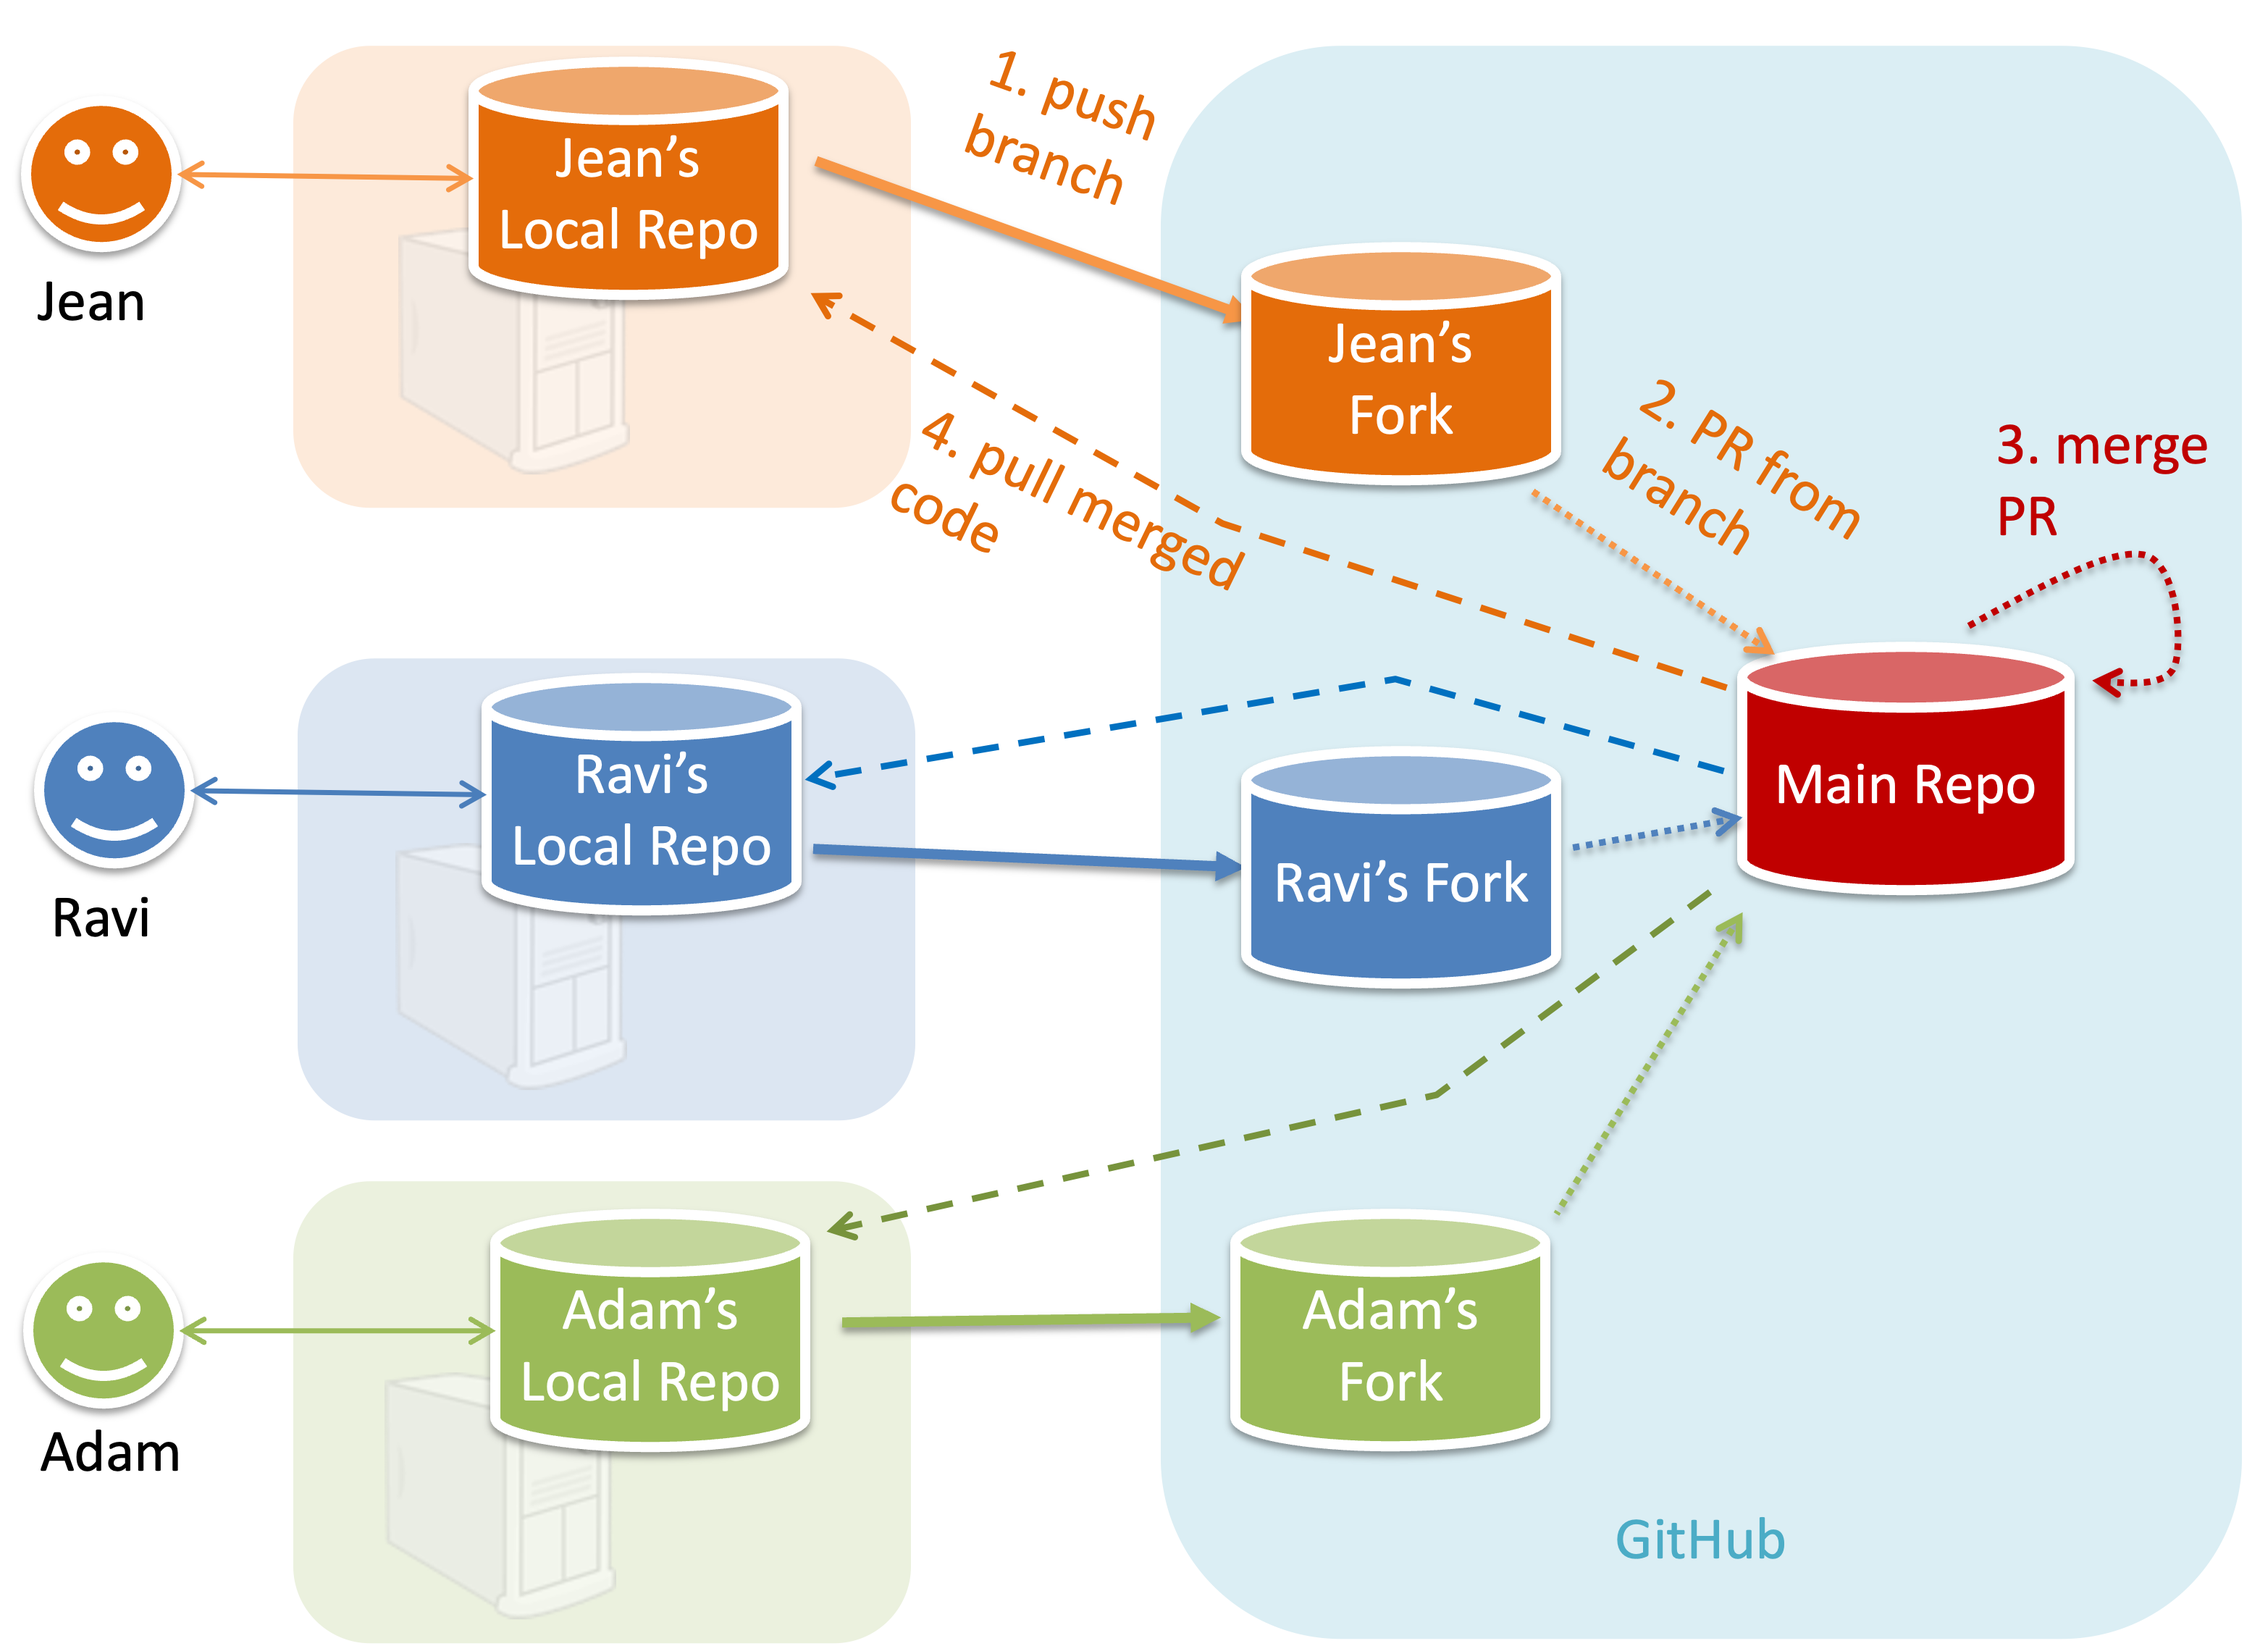
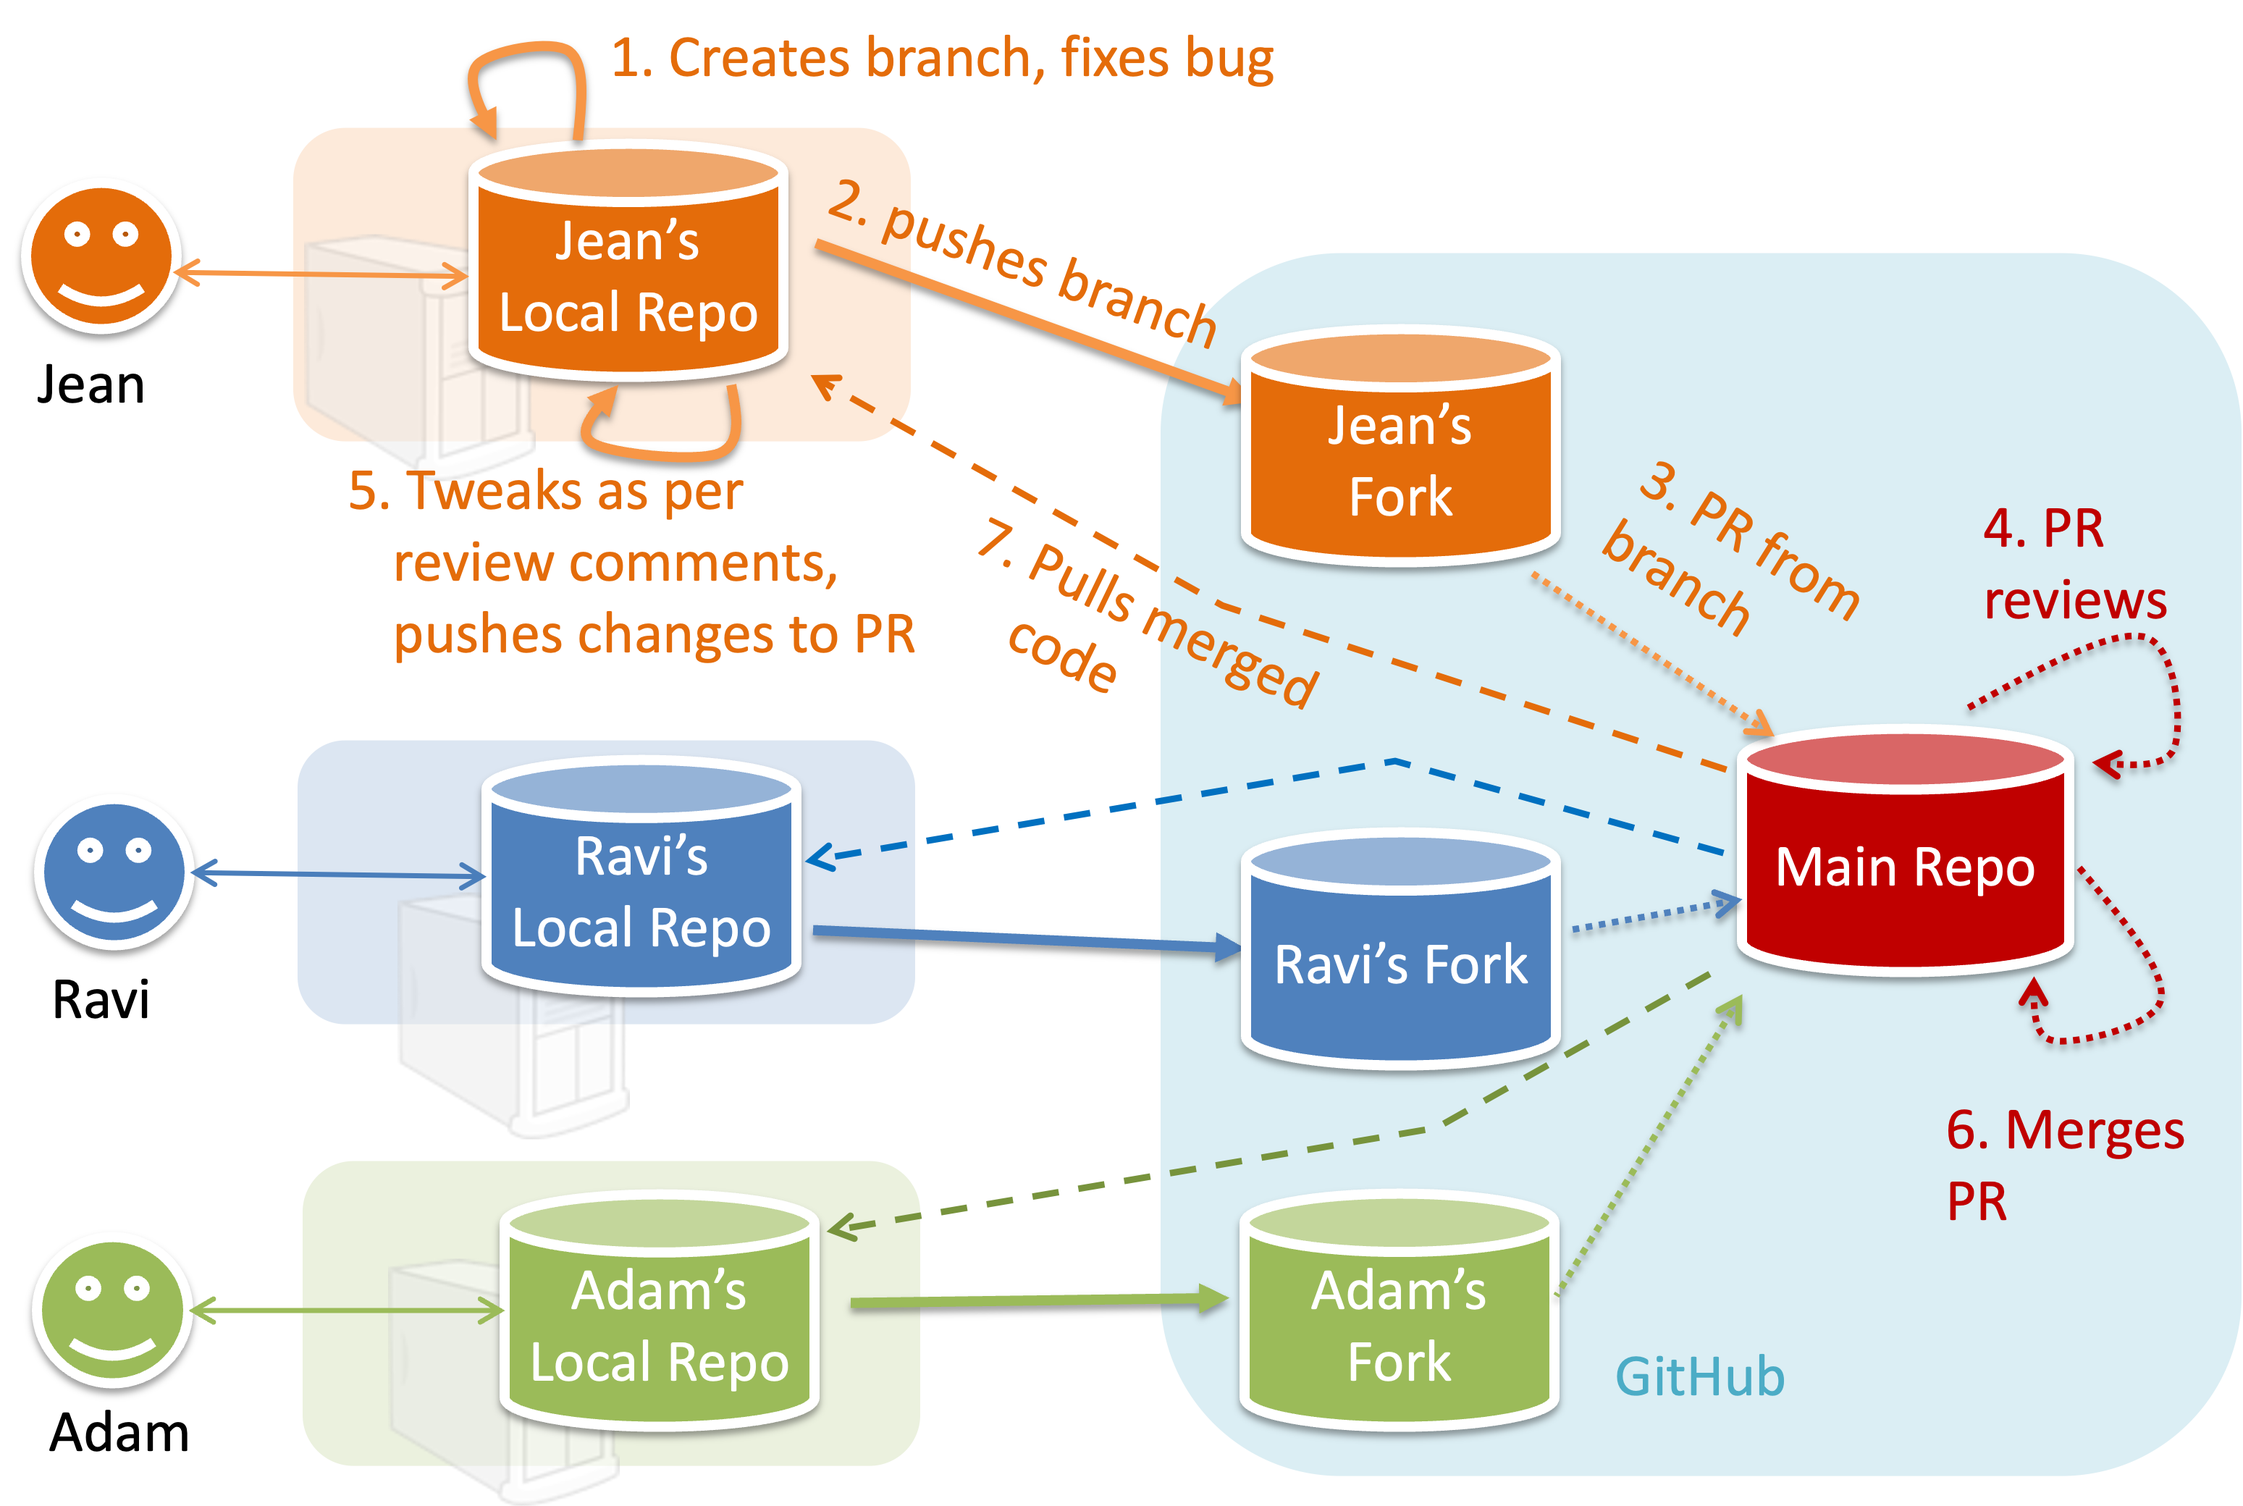
Add T10L2

diff --git a/lessons/forkingWorkflow/text.md b/lessons/forkingWorkflow/text.md
@@ -1,27 +1,31 @@
-{% from "common/macros.njk" import trail, bold_number, button_green, button_light, callout, dropdown, hp_number, label, show_commit, show_folder_columns, show_git_term, show_git_term_tip, show_detour, show_exercise, show_git_tabs, show_git_tabs_from_text, show_hands_on_practical, show_head, show_lesson_intro, show_lesson_link, show_output, show_protip, show_ref, show_resources, show_sidebar, show_tag, show_transformation_columns, show_troubleshooting, show_under_the_hood with context %}
+{% from "common/macros.njk" import trail, bold_number, callout, exercises, hp_number, label, os_tabs_marker, show_commit, show_folder_columns, show_git_term, show_git_term_tip, show_detour, show_detour_preview, show_exercise, show_git_tabs, show_git_tabs_from_text, show_hands_on_practical, show_hop_prep, show_head, show_lesson_intro, show_lesson_link, show_output, show_protip, show_ref, show_resources, show_sidebar, show_steps_tabs, show_tag, show_transformation_columns, show_troubleshooting, show_under_the_hood with context %}
 
 <span id="prereqs"></span>
-<span id="outcomes">{{ icon_outcome }} Can follow Forking Workflow</span>
-<span id="title">Forking Workflow</span>
+<span id="outcomes">{{ icon_outcome }} Can use a branch-based forking workflow</span>
+<span id="title">{{ trail.managingProjects.lessons.forkingWorkflow.title }}</span>
 
 <div id="body">
+{% call show_lesson_intro() %}
+A branch-based forking workflow is common in open-source projects and other large projects.
+{% endcall %}
+
+
+**In a branch-based forking workflow, the official code lives in a designated 'main' repo, while each developer works in their _own fork_ (hence, the name) and submits pull requests from _separate branches_** (either long-lived branches or short term branches) back to the main repo. That is, it is a combination of the forking model and the feature-branch strategy. Not only this workflow is common for OSS projects and other large-team projects, it provides a good foundation for learning Git workflows %%(because other workflows are simpler than this, once you learn this workflow, it is easy to move to other workflows)%%.
 
 <pic src="{{baseUrl}}/lessons/forkingWorkflow/images/diagram.png" height="330" />
 <p/>
 
-**In the {{ show_git_term("forking workflow") }}, the official code lives in a designated 'main' repo, while each developer works in their _own fork_ (hence, the name) and submits pull requests from _separate branches_ back to the main repo.**
-
 To illustrate how the workflow goes, let’s assume Jean wants to fix a bug in the code. Here are the steps:
 
-* Jean creates a separate branch in her local repo and fixes the bug in that branch.<br>
-   {{ icon_important_big_red }} Common mistake: Doing the proposed changes in the `main` branch -- if Jean does that, she will not be able to have more than one PR open at any time because any changes to the `main` branch will be reflected in all open PRs.{{  numbers_abcd }}
-* Jean pushes the branch to her fork.
-* Jean creates a pull request from that branch in her fork to the main repo.
-* Other members review Jean’s pull request.
-* If reviewers suggested any changes, Jean updates the PR accordingly.
-* When reviewers are satisfied with the PR, one of the members (usually the team lead or a designated 'maintainer' of the main repo) merges the PR, which brings Jean’s code to the main repo.
-* Other members, realizing there is new code in the upstream repo, sync their forks with the new upstream repo (i.e., the main repo). This is done by pulling the new code to their own local repo and pushing the updated code to their own fork. If there are unmerged branches in the local repo, they can be updated too e.g., by merging the new `main` branch to each of them.<br>
-   {{ icon_important_big_red }} Possible mistake: Creating another 'reverse' PR from the team repo to the team member's fork to sync the member's fork with the merged code. PRs are meant to go from downstream repos to upstream repos, not in the other direction.
+1. Jean creates a separate branch in her local repo and fixes the bug in that branch.<br>
+   {{ icon_important_big_red }} Common mistake: Doing the proposed changes in the `main` branch -- if Jean does that, she will not be able to have more than one PR open at any time because any changes to the `main` branch will be reflected in all open PRs.
+1. Jean pushes the branch to her fork.
+1. Jean creates a pull request from that branch in her fork to the main repo.
+1. Other members review Jean’s pull request.
+1. If reviewers suggested any changes, Jean updates the PR accordingly.
+1. When reviewers are satisfied with the PR, one of the members (usually the team lead or a designated 'maintainer' of the main repo) merges the PR, which brings Jean’s code to the main repo.
+1. Other members (and Jean), realizing there is new code in the upstream repo, sync their forks with the new upstream repo (i.e., the main repo). This is done by pulling the new code to their own local repo and pushing the updated code to their own fork. If there are unmerged branches in the local repo, they can be updated too e.g., by merging the new `main` branch to each of them.<br>
+   {{ icon_important_big_red }} Potential mistake: Creating another 'reverse' PR from the team repo to the team member's fork to sync the member's fork with the merged code. PRs are meant to go from downstream repos to upstream repos, not in the other direction.
 
 **One main benefit of this workflow is that it does not require most contributors to have write permissions to the main repository.** Only those who are merging PRs need write permissions.
 The main drawback of this workflow is the extra overhead of sending everything through forks.
@@ -95,7 +99,8 @@ The main drawback of this workflow is the extra overhead of sending everything t
 </div>
 
 <div id="extras">
+{% call show_resources() %}
+* [A detailed explanation of the Forking Workflow](https://www.atlassian.com/git/tutorials/comparing-workflows#forking-workflow) - From Atlassian
 
-<include src="resourcesPanel.md" boilerplate/>
-
+{% endcall %}
 </div>

diff --git a/lessons/forkingWorkflow/index.md b/lessons/forkingWorkflow/index.md
@@ -1,5 +1,6 @@
+{% from "common/macros.njk" import trail with context %}
 <frontmatter>
-title: "Git and GitHub: Forking Workflow"
+title: "{{ trail.managingProjects.lessons.forkingWorkflow.title }}"
 layout: lessons.md
 </frontmatter>
 
